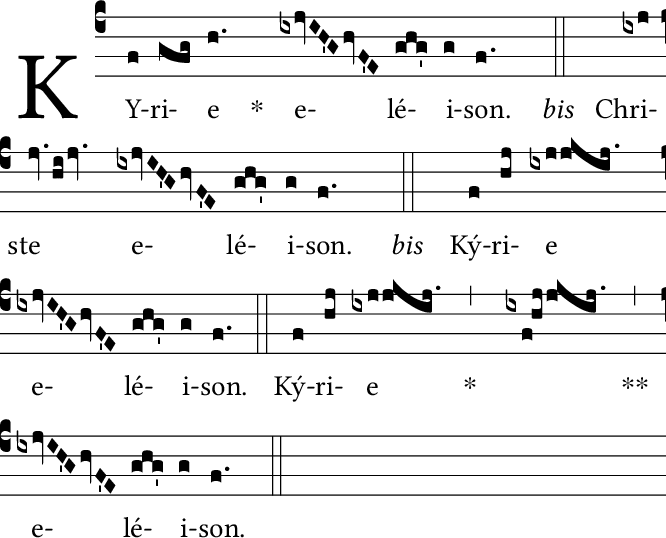
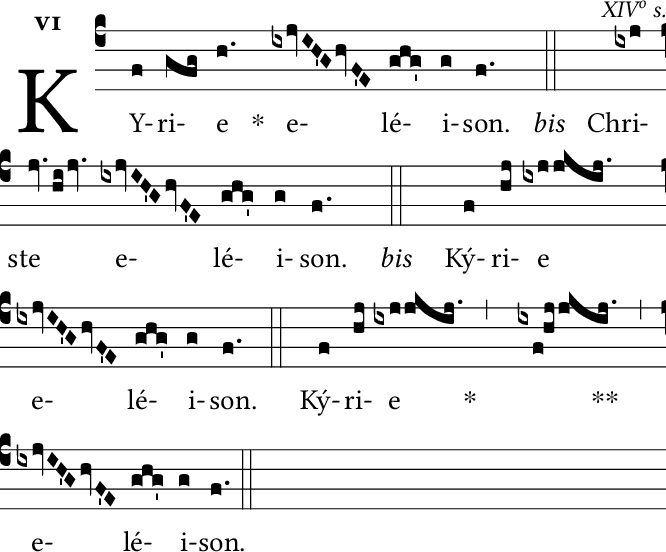
Reworking gabc file tutorial
Instead of using the `\greannotation` and `\grecommentary` commands directly, I've reworked this tutorial to take advantage of header capture.  This better demonstrates some of the advantages of using a separate gabc file and will make the tutorial more distinct from the snippet tutorial I'm working on (where this option isn't possible).

diff --git a/tutorial/tutorial-gabc-03.html b/tutorial/tutorial-gabc-03.html
@@ -73,9 +73,9 @@
 <img src="kyrie-xvii-goal.png"/>
 </div>
 
-<p>Our gabc notation file is complete now:</p>
+<p>Our gabc notation file currently looks like this:</p>
 
-<div class="filename"><a href="kyrie-17-final.gabc">kyrie-17-final.gabc</a></div>
+<div class="filename"><a href="kyrie-17-12.gabc">kyrie-17-12.gabc</a></div>
 
 <div class="commandblock">
 	<pre>
@@ -91,14 +91,36 @@ K&yacute;(f)ri(hj)e(ixjjkij.) *(,) (ixf!hjjkij.) **(,) (z) e(ixjvIH'GhvF'E)l&eac
 <p>And the resulting score looks like this:</p>
 
 <div class="legende">
-<img src="kyrie-17-13a.png"/>
+<img src="kyrie-17-12.png"/>
 </div>
 
-<p>We still have some changes to do: to add the mode notation "VI" before the first clef and add the annotation "XIV. s." above the first stave. I'd like to experiment with a different typeface for the text. Last of all, it would also be nice if we could add more vertical space between the staves.</p>
+<p>We also still have some changes to make to the score: add the mode notation "VI" before the first clef (an annotation) and add "XIV s." (which stands for "14th century," in Latin, the date of the piece) above the first stave (the commentary). I'd like to experiment with a different typeface for the text. Last of all, it would also be nice if we could add more vertical space between the staves.</p>
 
 <h3>Adding annotations</h3>
 
-<p>All these details of the output are controlled by the <span class="tex">T<span class="epsilon">e</span>X</span> file which represents the document, so let's look at that.  This is what you currently have:</p>
+<p>While we could add the annotation and commentary directly in the main project file, let's make use of the gabc headers so that this information stays with the score and can easily be reused if we decide to create another project using this score.</p>
+
+<p>To do this, we need to add two lines to the gabc file (highlighted in red):</p>
+
+<div class="filename"><a href="kyrie-17-final.gabc">kyrie-17-final.gabc</a></div>
+
+<div class="commandblock">
+	<pre>
+name:Kyrie XVII;
+<font color=red>mode: 6;
+date: XIV\textsuperscript{o} s.;</font>
+%%
+(c4)KY(f)ri(gfg)e(h.) *() e(ixjvIH'GhvF'E)l&eacute;(ghg')i(g)son.(f.) &lt;i&gt;bis&lt;/i&gt;(::) 
+Chri(ixj)ste(jv.hijv.) e(ixjvIH'GhvF'E)l&eacute;(ghg')i(g)son.(f.)  &lt;i&gt;bis&lt;/i&gt;(::)
+K&yacute;(f)ri(hj)e(ixjjkij.) (z) e(ixjvIH'GhvF'E)l&eacute;(ghg')i(g)son.(f.)  (::)
+K&yacute;(f)ri(hj)e(ixjjkij.) *(,) (ixf!hjjkij.) **(,) (z) e(ixjvIH'GhvF'E)l&eacute;(ghg')i(g)son.(f.)  (::)
+</pre>
+</div>
+
+<p>You'll note that we've used some <span class="tex">T<span class="epsilon">e</span>X</span> code in the date header in order to create the ordinal indicator (something lacking in the original score).  We could also have used the Unicode character <code>º</code> for the same purpose, but that would be more sensitive to font changes, so I prefer to use the explicit <span class="tex">T<span class="epsilon">e</span>X</span> code.  Of course, you could just leave it out entirely and get something closer to the score.</p>
+
+<p>Now, the mode header will be picked up by default (and placed as an annotation) once it's been added to the gabc file, but the date header will not.  In order to add place the date header in the commentary position, we need to add a line to the project file (highlighted in red):</p>
+
 
 <div class="filename"><a href="kyrie-17-13-main.tex">kyrie-17-13-main.tex</a></div>
 
@@ -115,38 +137,21 @@ K&yacute;(f)ri(hj)e(ixjjkij.) *(,) (ixf!hjjkij.) **(,) (z) e(ixjvIH'GhvF'E)l&eac
 
 \begin{document}
 
+<font color="red">\gresetheadercapture{date}{grecommentary}{}</font>
 \gregorioscore{kyrie-17}
 
 \end{document}
 </pre>
 </div>
 
-<p>The <code>\grecommentary{}</code> macro generates the small text above the first stave, so let's add that first.  Place the following line directly above <code>\gregorioscore</code> (<i>i.e.</i> there should be no blank lines in between):</p>
 
-<div class="commandblock">
-	<pre>
-\grecommentary{{\small \emph{XIV. s.}}}
-</pre>
+<p>Once that's done, run that file through Lua<span class="latex">L<span class="alpha">a</span>T<span class="epsilon">e</span>X</span>, and the resulting score looks like this:</p>
+
+<div class="legende">
+<img src="kyrie-17-13.png"/>
 </div>
 
-<p>The macro <code>\greannotation{}</code> generates the mode label before the first clef, so let's add that line just above the previous one:</p>
-
-<div class="commandblock">
-	<pre>
-\greannotation{\small \textsc{\textbf{VI.}}}
-</pre>
-</div>
-
-Finally, let's put a title at the top of the page by placing the following line directly after <code>\begin{document}</code>:
-
-<div class="commandblock">
-	<pre>
-\begin{center}\begin{huge}\textsc{Kyrie XVIII}\end{huge}\end{center}
-</pre>
-</div>
-
-
-<p>Your whole file should look like this now:</p>
+<p>We've got the elements in place, but I don't like the way the date commentary looks.  Instead of italics, I want it to be bold.  However, I still want to keep it the same size, which is slightly smaller than the font used for the lyrics.  To make this happen I need to modify the project file again:</p>
 
 <div class="filename"><a href="kyrie-17-14-main.tex">kyrie-17-14-main.tex</a></div>
 
@@ -161,22 +166,53 @@ Finally, let's put a title at the top of the page by placing the following line 
 
 \usepackage[autocompile]{gregoriotex}
 
-\begin{document}
-<font color="red">\begin{center}\begin{huge}\textsc{Kyrie XVIII}\end{huge}\end{center}
+<font color="red">\grechangestyle{commentary}{\small\bfseries}</font>
 
-\greannotaion{\small \textsc{\textbf{VI.}}}
-\grecommentary{{\small \emph{XIV. s.}}}</font>
+\begin{document}
+
+\gresetheadercapture{date}{grecommentary}{}
 \gregorioscore{kyrie-17}
 
 \end{document}
 </pre>
 </div>
 
-
-<p>Make those changes, run that file through <span class="latex">L<span class="alpha">a</span>T<span class="epsilon">e</span>X</span>, and the resulting score looks like this:</p>
-
 <div class="legende">
 <img src="kyrie-17-14.png"/>
+</div>
+
+<p>I think that's a bit better.  However, having made that change, it's now obvious that the mode number and the date commentary are not printing the same.  This is because by default the mode number uses small capitals, not normal majuscule characters.  I'm going to switch this to get a more consistent look.</p>
+
+<p>I also want to put a title at the top of the page, so I'll add that directly after <code>\begin{document}</code>.</p>
+
+<div class="filename"><a href="kyrie-17-15-main.tex">kyrie-17-15-main.tex</a></div>
+
+<div class="commandblock">
+	<pre>
+\documentclass[12pt, a5paper]{article}
+
+\usepackage{fullpage}
+
+\usepackage{fontspec}
+\usepackage{libertine}
+
+\usepackage[autocompile]{gregoriotex}
+
+\grechangestyle{commentary}{\small\bfseries}
+<font color="red">\gresetmodenumbersystem{roman-majuscule}</font>
+
+\begin{document}
+<font color="red">\begin{center}\begin{huge}\textsc{Kyrie XVII}\end{huge}\end{center}</font>
+
+\gresetheadercapture{date}{grecommentary}{}
+\gregorioscore{kyrie-17}
+
+\end{document}
+</pre>
+</div>
+
+<div class="legende">
+<img src="kyrie-17-15.png"/>
 </div>
 
 <h3>Changing the typeface</h3>
@@ -200,20 +236,22 @@ Finally, let's put a title at the top of the page by placing the following line 
 <p>Here's how the score looks after that change:</p>
 
 <div class="legende">
-<img src="kyrie-17-15.png"/>
+<img src="kyrie-17-font.png"/>
 </div>
 
 <p>This result is kind of ugly, so we'll change it back to Linux Libertine, but this should give you some idea of how to change the font.  Other fonts, including most of the ones already installed on your system, can be loaded using the <a href="https://www.ctan.org/pkg/fontspec?lang=en"><code>fontspec</code></a> package, just like we loaded Arial above.  You can also find a list of free fonts which are readily available for <span class="tex">T<span class="epsilson">e</span>X</span> see <a href="http://www.tug.dk/FontCatalogue/">The <span class="latex">L<span class="alpha">a</span>T<span class="epsilon">e</span>X</span> Font Catalogue.</a>  The best-looking font for Gregorian Chant is a matter of taste, so we'll leave it up to you to explore the use of other fonts on your own.</p>
 
 <h3>Changing vertical spacing</h3>
 
-<p>To add more space between the staves, I adjusted a spacing variable by adding the following line between the title and the annotation:</p>
+<p>To add more space between the staves, I adjusted a spacing variable by adding the following line to the preamble:</p>
 
 <div class="commandline">
 	<pre>
-\grechangedim{spaceabovelines}{1.45 cm plus 0.36 cm minus 0.09 cm}{scalable}%
+\grechangedim{lineskip}{1 cm plus 0.36 cm minus 0.09 cm}{scalable}%
 </pre>
 </div>
+
+
 
 <p>This gives us this final project file:</p>
 
@@ -235,7 +273,7 @@ Finally, let's put a title at the top of the page by placing the following line 
 
 \begin{center}\begin{huge}\textsc{Kyrie XVII}\end{huge}\end{center}
 
-\grechangedim{spaceabovelines}{1.45 cm plus 0.36 cm minus 0.09 cm}{scalable}
+\grechangedim{lineskip}{1 cm plus 0.36 cm minus 0.09 cm}{scalable}
 
 \greannotation{\small \textsc{\textbf{VI.}}}
 \grecommentary{{\small \emph{XIV. s.}}}

diff --git a/tutorial/tutorial-gabc-01.html b/tutorial/tutorial-gabc-01.html
@@ -61,8 +61,6 @@
 </style>
 <h1>Gregorio and GABC Tutorial</h1>
 
-<p>This tutorial demonstrates the features of Gregorio by showing how to reproduce an existing score.</p>
-
 <p>Documentation for the gabc notation which we use in this tutorial can be found <a href="../gabc/index.html">here</a>. A <a href="../gabc/summary-gabc.pdf">one-page summary is also on-line</a> (PDF).</p>
 
 <p>If you plan on following along with the tutorial, you'll need to <a href="../introduction.html">choose your method</a> for using Gregorio and set your system up first.</p>
@@ -70,6 +68,8 @@
 <p>We'll start with an empty staff and build up from there. Along the way, I'll make some deliberate mistakes to illustrate some common problems.</p>
 
 <p>If you don't have Gregorio installed on your own computer, you can find out about running it through the web at this <a href="../introduction-web.html"> introduction page</a>.</p>
+
+<p>In this tutorial we're going to make use of a separate gabc file to hold the score.  This is especially adventagous for large projects or for scores which you use multiple times.  By putting each gabc score in its own file, it is easier to find the score for which you're looking.  These files can have a <a href="../gabc/index.html#header">header</a> which can store meta-data about the score (such as the name of the piece or the manuscript scource), information which your computer's search function can read and use.  Furthermore, a few of the more advanced features of the gabc notation are only usable inside a gabc file.</p>
 
 <h2>Kyrie XVII</h2>
 

diff --git a/tutorial/kyrie-17-15-main.tex b/tutorial/kyrie-17-15-main.tex
@@ -3,18 +3,19 @@
 \usepackage{fullpage}
 
 \usepackage{fontspec}
-\setmainfont{Arial}
+\usepackage{libertine}
 
 \usepackage[autocompile]{gregoriotex}
 
 \pagestyle{empty}
 
-\begin{document}
+\grechangestyle{commentary}{\small\bfseries}
+\gresetmodenumbersystem{roman-majuscule}
 
+\begin{document}
 \begin{center}\begin{huge}\textsc{Kyrie XVII}\end{huge}\end{center}
 
-\greannotation{\small \textsc{\textbf{VI.}}}
-\grecommentary{{\small \emph{XIV. s.}}}
+\gresetheadercapture{date}{grecommentary}{}
 \gregorioscore{kyrie-17-final}
 
 \end{document}

diff --git a/tutorial/kyrie-17-font-main.tex b/tutorial/kyrie-17-font-main.tex
@@ -3,7 +3,7 @@
 \usepackage{fullpage}
 
 \usepackage{fontspec}
-\usepackage{libertine}
+\setmainfont{Arial}
 
 \usepackage[autocompile]{gregoriotex}
 
@@ -15,8 +15,6 @@
 \begin{document}
 
 \begin{center}\begin{huge}\textsc{Kyrie XVII}\end{huge}\end{center}
-
-\grechangedim{lineskip}{1 cm plus 0.36 cm minus 0.09 cm}{scalable}
 
 \gresetheadercapture{date}{grecommentary}{}
 \gregorioscore{kyrie-17-final}

diff --git a/tutorial/kyrie-17-14-main.tex b/tutorial/kyrie-17-14-main.tex
@@ -9,12 +9,11 @@
 
 \pagestyle{empty}
 
+\grechangestyle{commentary}{\small\bfseries}
+
 \begin{document}
 
-\begin{center}\begin{huge}\textsc{Kyrie XVII}\end{huge}\end{center}
-
-\greannotation{\small \textsc{\textbf{VI.}}}
-\grecommentary{{\small \emph{XIV. s.}}}
-\gregorioscore{kyrie-17-14}
+\gresetheadercapture{date}{grecommentary}{}
+\gregorioscore{kyrie-17-final}
 
 \end{document}

diff --git a/tutorial/kyrie-17-13-main.tex b/tutorial/kyrie-17-13-main.tex
@@ -11,6 +11,7 @@
 
 \begin{document}
 
+\gresetheadercapture{date}{grecommentary}{}
 \gregorioscore{kyrie-17-final}
 
 \end{document}
